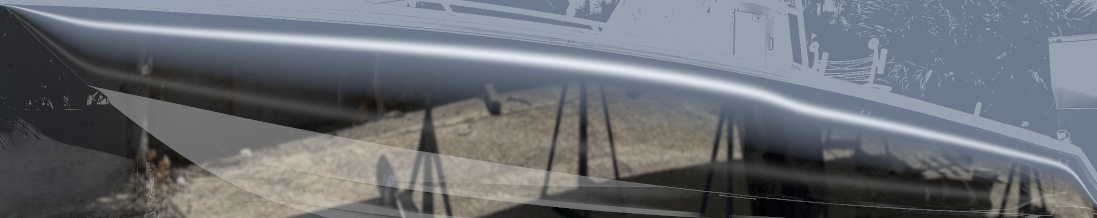
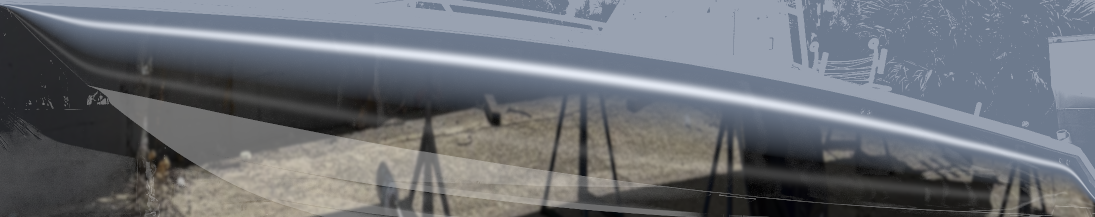
Tighten wrap fit to rub rail, chine and transom

diff --git a/assets/boat-preview/boatpreview.js b/assets/boat-preview/boatpreview.js
@@ -3,7 +3,7 @@
    so it matches the selected film's hex exactly; gloss/satin/metallic reflections sit on top. */
 (function(){
   const BASE='assets/boat-preview/';
-  const META={SMAX:2.3,EMAX:0.16,W:1200,H:477,BB:[35,124,1132,342]};
+  const META={SMAX:2.3,EMAX:0.16,W:1200,H:477,BB:[35,124,1130,341]};
   const PCT={matte:50,satin:45,gloss:30,metal:35};
   let ready=null, data=null, pending=null;
   const lin=v=>{v/=255;return v<=0.04045?v/12.92:Math.pow((v+0.055)/1.055,2.4)};
